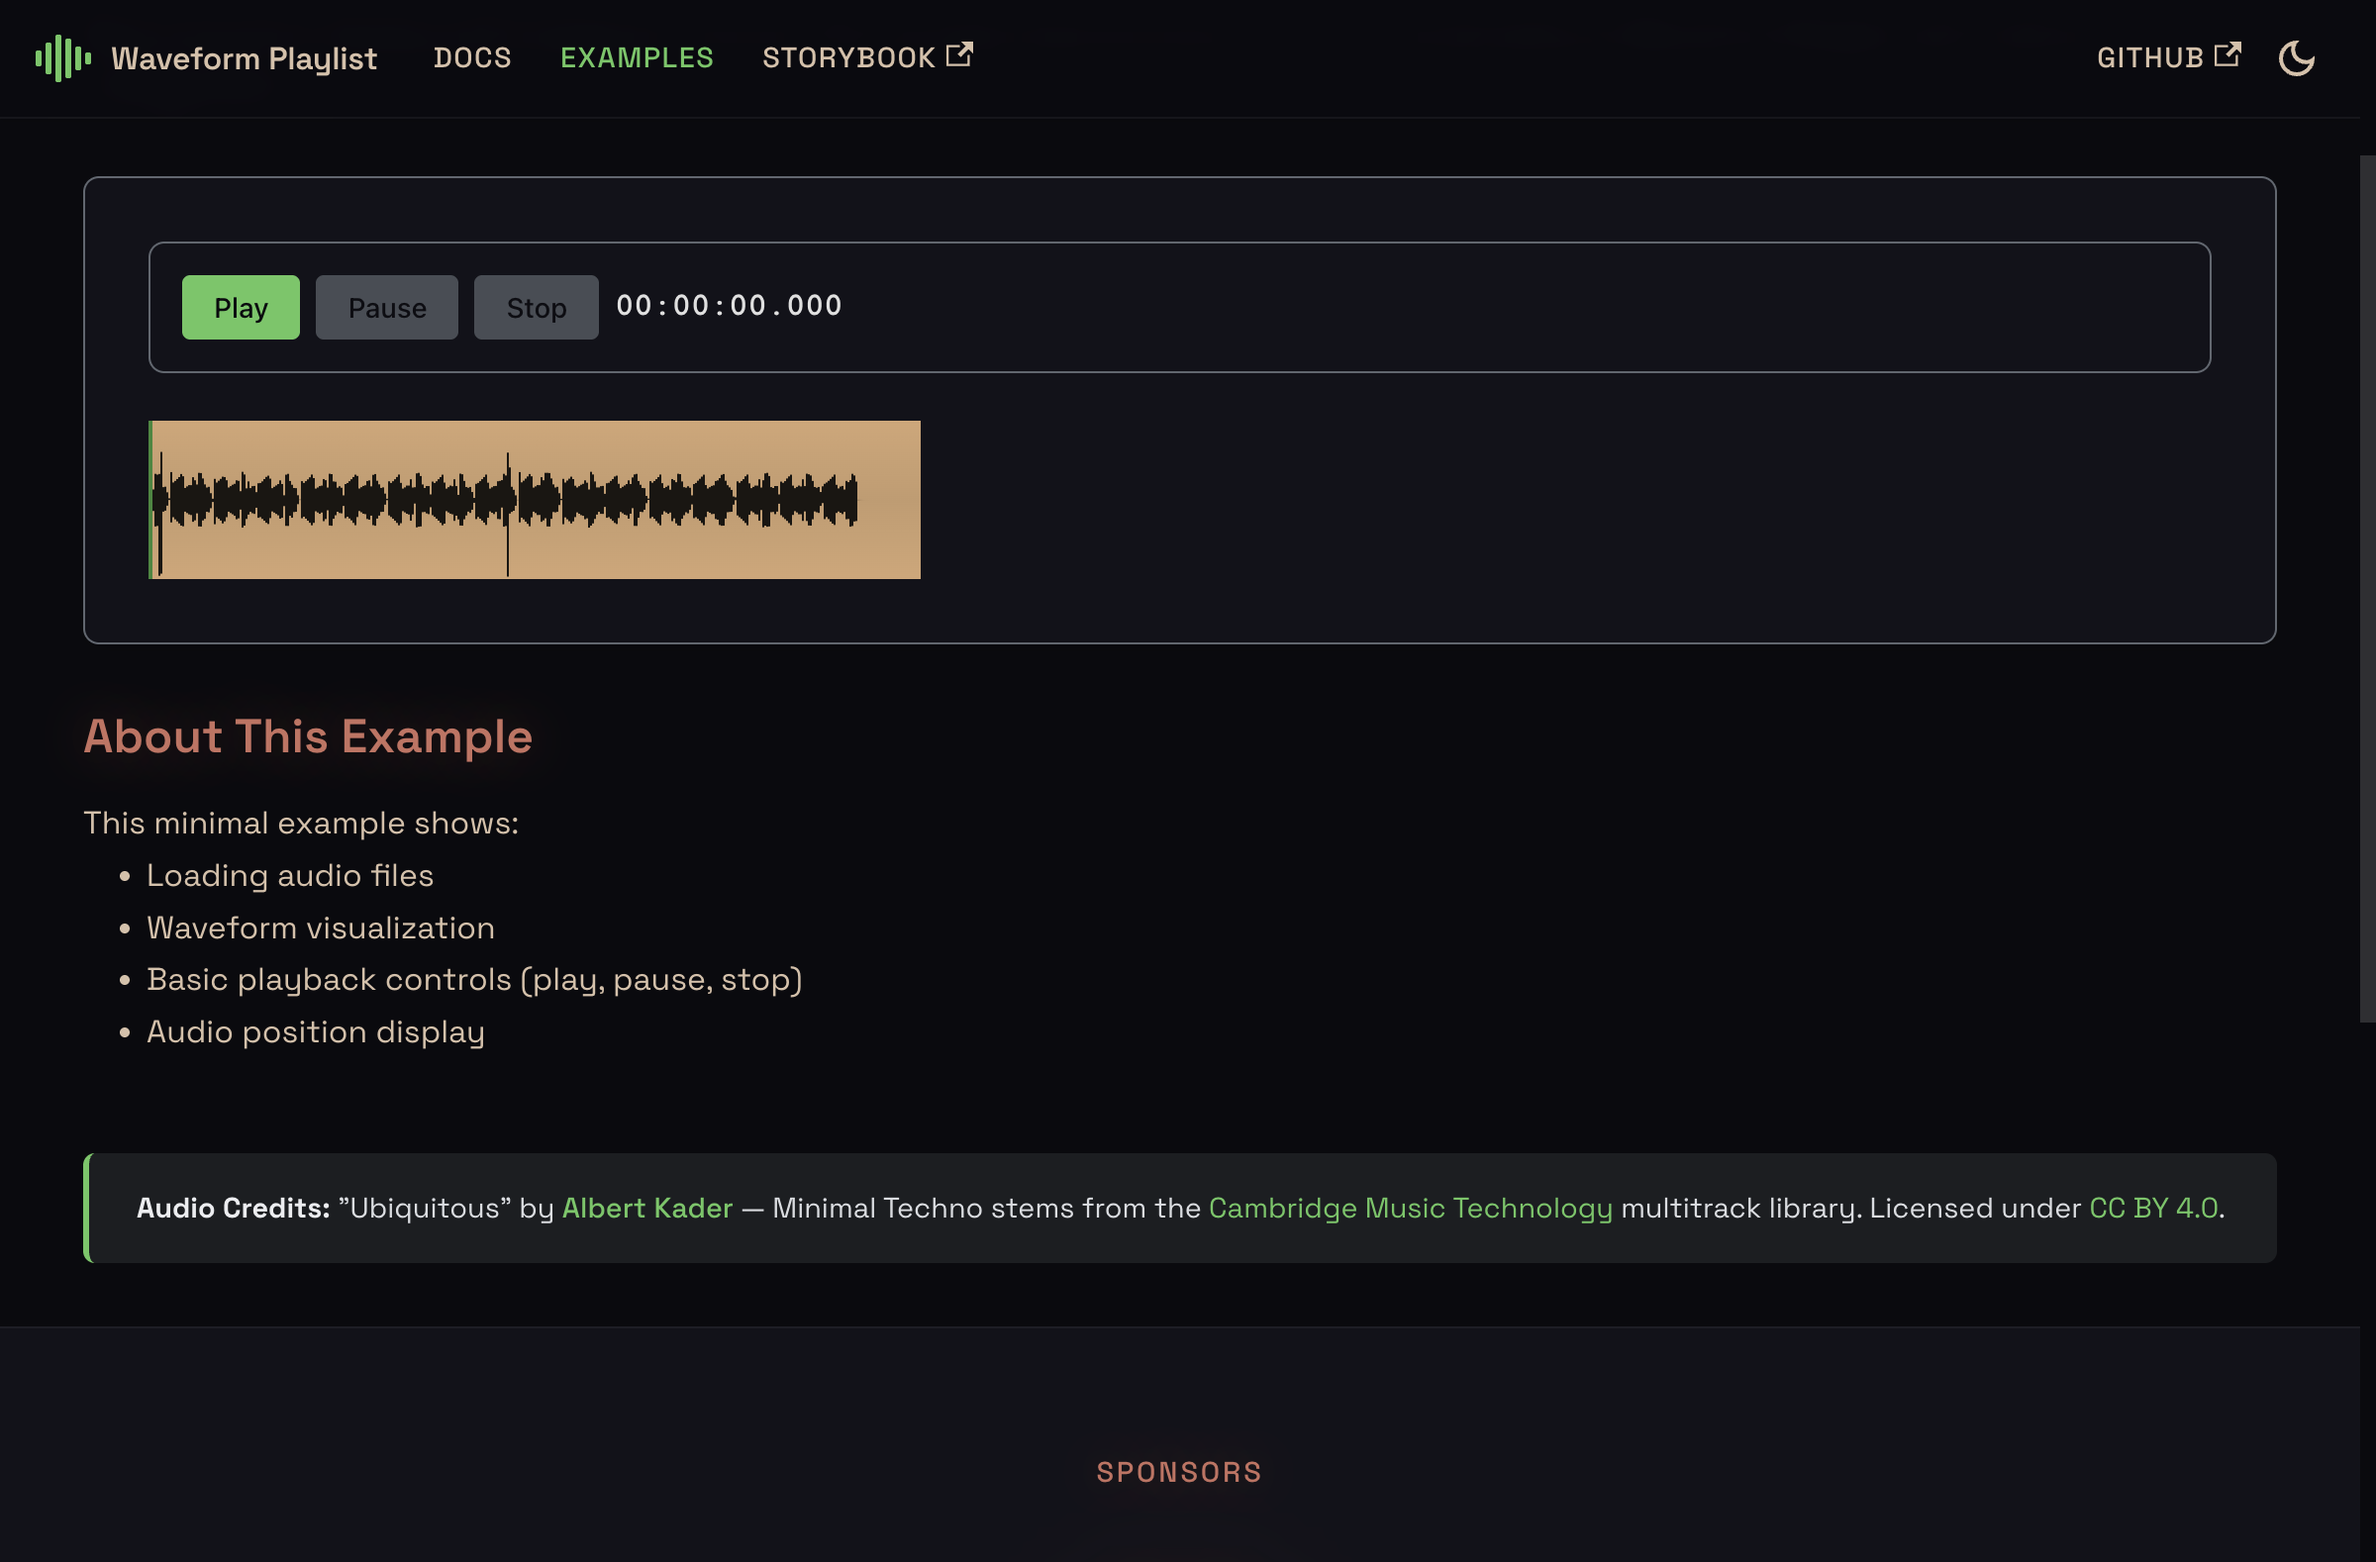
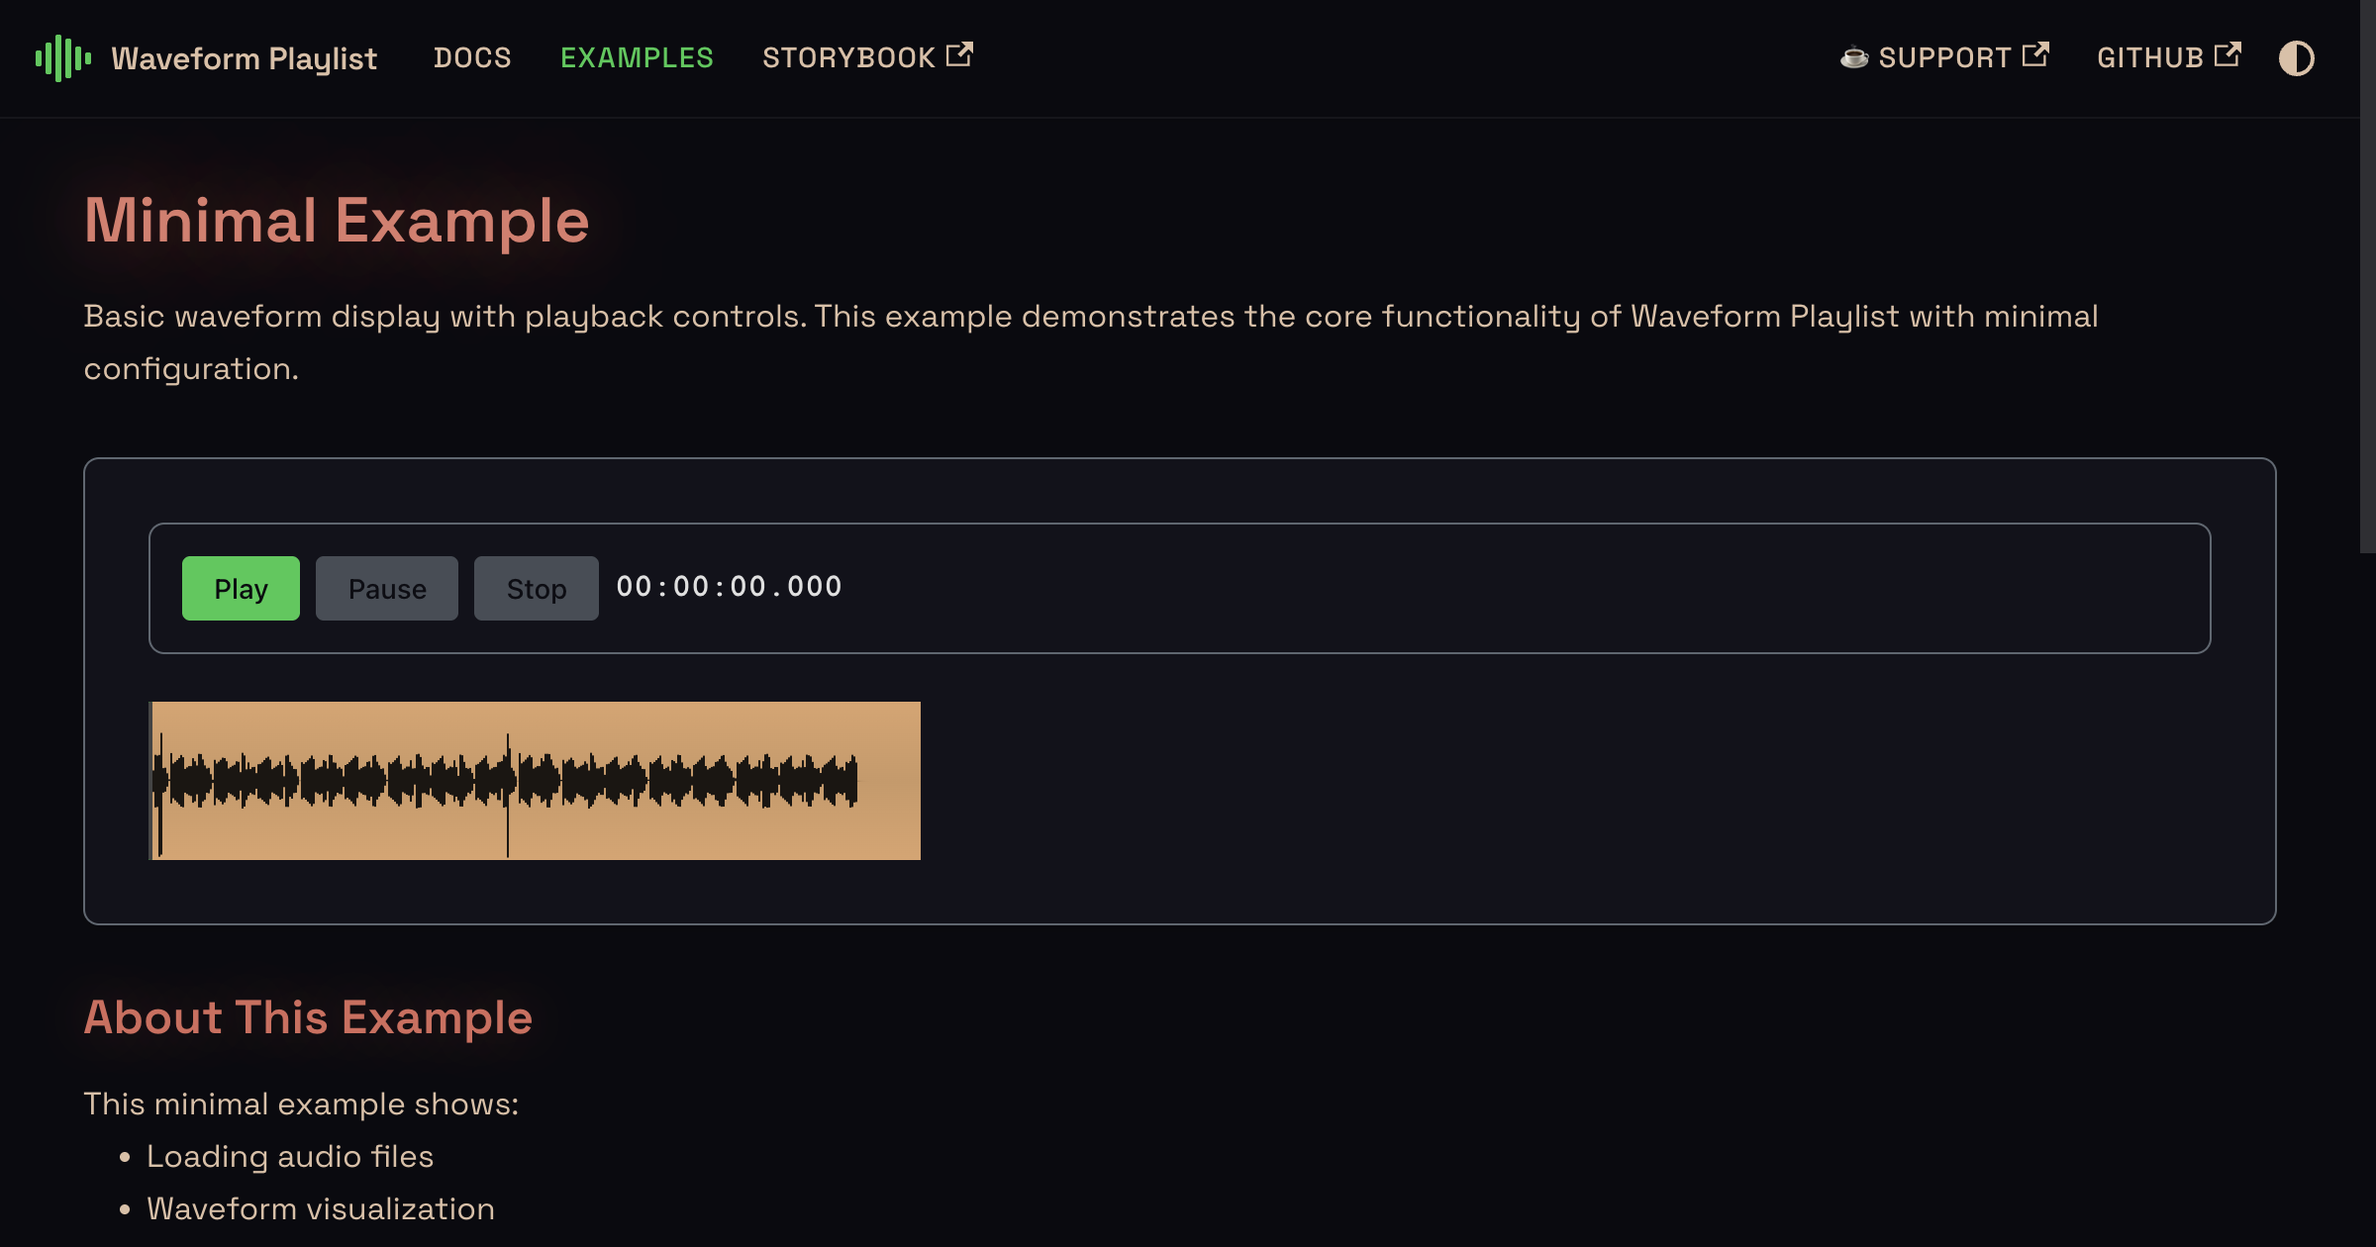
docs: refresh social images with 2x retina dark mode screenshots
Recaptured all 17 example page OG images at 2400x1260 (was 2400x1578
wrong aspect ratio) using Playwright with deviceScaleFactor 2 and
colorScheme dark. Added missing example-mir-spectrogram.png. Updated
social images README with new pages and generation instructions.

diff --git a/website/static/img/social/README.md b/website/static/img/social/README.md
@@ -4,7 +4,7 @@ Place screenshots here for social media sharing (Open Graph / Twitter Cards).
 
 ## Required Images
 
-All images should be **1200x630 pixels** (or 2:1 aspect ratio) for optimal display on social platforms.
+All images are **2400x1260 pixels** (2x Retina, 2:1 aspect ratio) for optimal display on social platforms.
 
 ### Main Site
 - `waveform-playlist-social.png` - Main site social card (used as default for homepage and docs)
@@ -27,6 +27,10 @@ All images should be **1200x630 pixels** (or 2:1 aspect ratio) for optimal displ
 | `example-waveform-data.png` | BBC Waveform - Pre-computed peaks |
 | `example-flexible-api.png` | Flexible API - Custom UI hooks |
 | `example-stereo.png` | Stereo - L/R channel waveforms |
+| `example-mobile-multi-clip.png` | Mobile Multi-Clip - Touch-optimized editing |
+| `example-mobile-annotations.png` | Mobile Annotations - Touch annotation editing |
+| `example-media-element.png` | Media Element - HTMLAudioElement playback |
+| `example-mir-spectrogram.png` | MIR Spectrogram - Frequency-domain visualization |
 
 ## Tips for Screenshots
 
@@ -36,9 +40,17 @@ All images should be **1200x630 pixels** (or 2:1 aspect ratio) for optimal displ
 4. **Include UI context** - Show some controls to convey interactivity
 5. **Capture key features** - Effects panel, recording VU meter, annotations overlay, etc.
 
-## Image Generation Tips
+## Image Generation
 
-You can take screenshots at higher resolution and scale down:
-- Take at 2400x1260 for Retina displays, save as PNG
-- Use browser DevTools device toolbar to set exact viewport sizes
-- Consider a subtle branded overlay with the example name
+Screenshots are taken with Playwright using a dedicated browser context:
+
+```js
+const context = await browser.newContext({
+  viewport: { width: 1200, height: 630 },
+  deviceScaleFactor: 2,
+  colorScheme: 'dark'
+});
+```
+
+This produces 2400x1260 retina PNGs in dark mode. Each page waits for
+`[data-playlist-state="ready"]` before capture (except pages without playlists).
